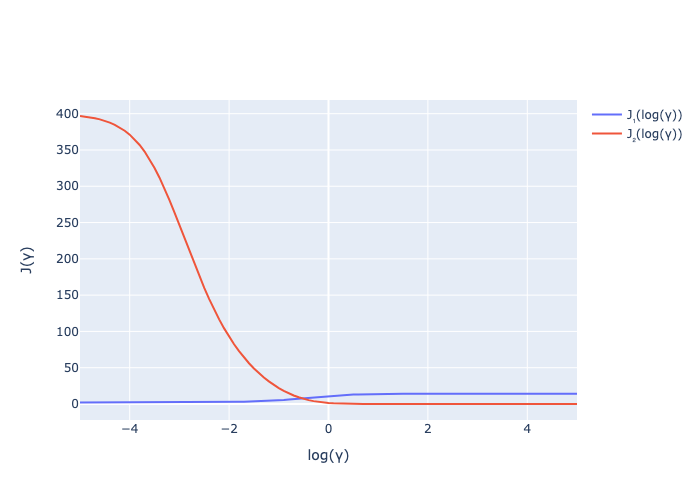
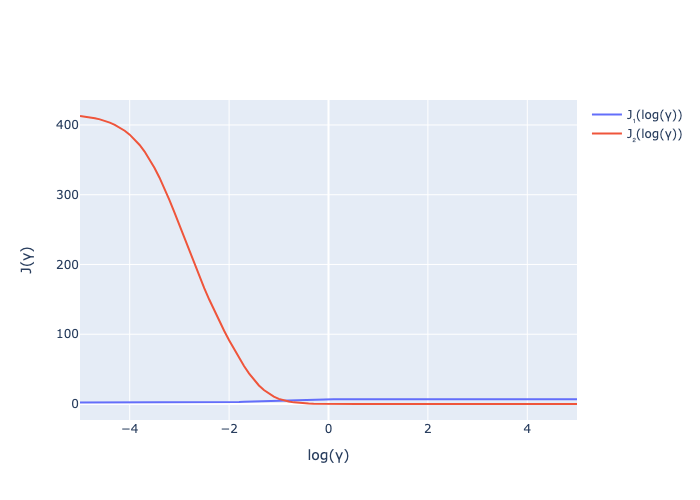
brought 2b and 2c back (sorry lol)

diff --git a/task_2c.py b/task_2c.py
@@ -1,0 +1,55 @@
+from sklearn.linear_model import LinearRegression
+from sklearn.metrics import mean_squared_error, r2_score
+import numpy as np
+import plotly.express as px
+import plotly.graph_objects as go
+from functions import get_plot, J_1, J_2
+
+N = 5
+a = 1
+b = 0.05
+x0 = 1
+c = 0.2
+d = -0.5
+y0 = 1
+c_ = np.array([x0 * a ** i for i in range(N + 1)] + [0] * (N + 1)).T
+d_ = np.array([0] * (N + 1) + [y0 * c ** i for i in range(N + 1)]).T
+A = np.array([np.array([0.0] * (2 * N)) for i in range(2 * N + 2)])
+B = np.array([np.array([0.0] * (2 * N)) for i in range(2 * N + 2)])
+D = np.array([np.array([0.0] * (2 * N)) for i in range(N)])
+A = A.astype(np.float64)
+for i in range(N):
+    D[i][i] = 1
+    D[i][i + N] = -1
+    for j in range(N):
+        if i >= j:
+            A[i + 1][j] = a ** (i - j) * b
+            B[N + 1 + i + 1, N + j] = c ** (i - j) * d
+J1 = []
+J2 = []
+gammas = []
+
+for power in np.arange(-5.0, 5.1, 0.1):
+    gamma = 10 ** power
+    gammas.append(power)
+    M = (A.T @ A + B.T @ B + gamma * D.T @ D)
+    optimal_uv = -(np.linalg.inv(M)) @ (c_.T @ A + d_.T @ B).T
+    x = A @ optimal_uv + c_
+    y = B @ optimal_uv + d_
+    x = x[:N + 1]
+    y = y[N + 1:]
+    u = optimal_uv[:N]
+    v = optimal_uv[N:]
+    J1.append(J_1(x, y))
+    J2.append(J_2(u, v))
+
+get_plot(J1, J2, "2c - Pareto", "J₁(γ)", "J₂(γ)")
+
+fig = go.Figure()
+fig.add_trace(go.Scatter(x=gammas, y=J1, name="J₁(log(γ))"))
+fig.add_trace(go.Scatter(x=gammas, y=J2, name="J₂(log(γ))"))
+fig.update_layout(
+    xaxis_title="log(γ)",
+    yaxis_title="J(γ)"
+)
+fig.write_image("images/2c - Cost functions.png")

diff --git a/task_2b.py b/task_2b.py
@@ -1,0 +1,42 @@
+from sklearn.linear_model import LinearRegression
+from sklearn.metrics import mean_squared_error, r2_score
+import numpy as np
+import plotly.express as px
+import plotly.graph_objects as go
+from functions import get_plot
+
+N = 50
+a = 1
+b = 0.05
+x0 = 1
+c = 0.2
+d = -0.5
+y0 = 1
+c_ = np.array([x0 * a ** i for i in range(N + 1)] + [0] * (N + 1)).T
+d_ = np.array([0] * (N + 1) + [y0 * c ** i for i in range(N + 1)]).T
+A = np.array([np.array([0.0] * (2 * N)) for i in range(2 * N + 2)])
+B = np.array([np.array([0.0] * (2 * N)) for i in range(2 * N + 2)])
+D = np.array([np.array([0.0] * (2 * N)) for i in range(N)])
+A = A.astype(np.float64)
+for i in range(N):
+    D[i][i] = 1
+    D[i][i + N] = -1
+    for j in range(N):
+        if i >= j:
+            A[i + 1][j] = a ** (i - j) * b
+            B[N + 1 + i + 1, N + j] = c ** (i - j) * d
+
+gamma = 1
+M = (A.T @ A + B.T @ B + gamma * D.T @ D)
+optimal_uv = -(np.linalg.inv(M)) @ (c_.T @ A + d_.T @ B).T
+x = A @ optimal_uv + c_
+y = B @ optimal_uv + d_
+x = x[:N + 1]
+y = y[N + 1:]
+u = optimal_uv[:N]
+v = optimal_uv[N:]
+
+get_plot([i for i in range(N + 1)], x, "2b - Optimal Trajectories x_u","Time step i", "x",)
+get_plot([i for i in range(1, N + 1)], u, "2b - Optimal Control Signals u","Time step i", "u")
+get_plot([i for i in range(N + 1)], y, "2b - Optimal Trajectories y_v","Time step i", "y")
+get_plot([i for i in range(1, N + 1)], v, "2b - Optimal Control Signals v", "Time step i", "v")
